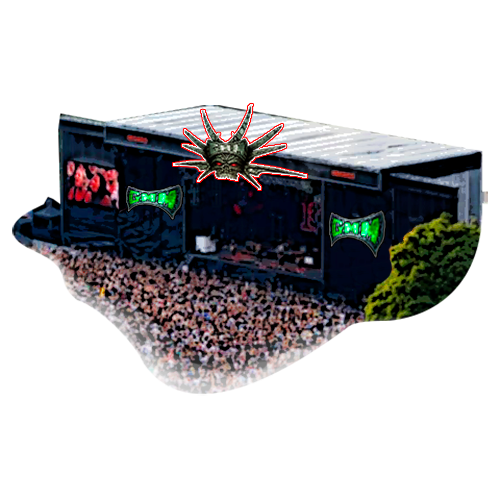
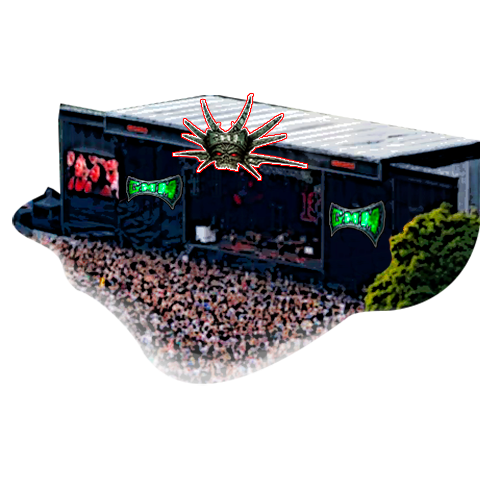
test added

Changed region(s): [[0.0312, 0.1875, 1.0, 0.8125]]

diff --git a/index.html b/index.html
@@ -4,40 +4,66 @@
     <title>Idle GMM festival</title>
     <link rel="stylesheet" href="styles.css" />
   </head>
-</head>
-<body class="responsive">
- <!-- Score-board-bar -->
- <div class="responsive" id="scoreboard-bar">
-  <span class="score">Skullies: <span id="totalScore">0</span></span>
-  <span class="level">Podium Level: <span id="podiumLevel">1</span></span>
-  <span class="line-up">Line Up: <span id="lineUpValue">0</span></span>
-  <span class="level">Food Level: <span id="foodLevel">1</span></span>
 
-  <a href="top-scores.html" class="top-scores-link">Top Scores</a>
-</div>
+  <body class="responsive">
+    <!-- Score-board-bar -->
+    <div class="responsive" id="scoreboard-bar">
+      <span class="score">Skullies: <span id="totalScore">0</span></span>
+      <span class="level">Podium Level: <span id="podiumLevel">1</span></span>
+      <span class="line-up">Line Up: <span id="lineUpValue">0</span></span>
+      <span class="level">Food Level: <span id="foodLevel">1</span></span>
 
-<img id="podium-main" src="images/podium3.png" class="responsive" alt="main" onClick="upgradePodium()" />
+      <a href="top-scores.html" class="top-scores-link">Top Scores</a>
+    </div>
 
-<!-- metaMask code for the button -->
-    <img id="metamaskImg" src="images/metamask.svg" alt="connectButton" onClick="connect()" />
-    <img id="cheat1000" src="images/coin.gif" alt="cheat1000" onClick="cheat()" />
-    
+    <img
+      id="podium-main"
+      src="images/podium3.png"
+      class="responsive"
+      alt="main"
+      onClick="upgradePodium()"
+    />
 
-    <img id="drinksStall" src="images/drinks.png" class="green" alt="drinks" onClick="upgradeDrinks()" />
-    
+    <!-- metaMask code for the button -->
+    <img
+      id="metamaskImg"
+      src="images/metamask.svg"
+      alt="connectButton"
+      onClick="connect()"
+    />
+    <img
+      id="cheat1000"
+      src="images/coin.gif"
+      alt="cheat1000"
+      onClick="cheat()"
+    />
+
+    <img
+      id="drinksStall"
+      src="images/drinks.png"
+      class="green"
+      alt="drinks"
+      onClick="upgradeDrinks()"
+    />
+
     <div id="drinksLevelBox" class="level-box">
       <span id="drinksLevelText">1</span>
     </div>
-    
-    <img id="foodStall" src="images/food.png" class="responsive" alt="food" onClick="upgradeFood()" />
 
-    
+    <img
+      id="foodStall"
+      src="images/food.png"
+      class="responsive"
+      alt="food"
+      onClick="upgradeFood()"
+    />
+
     <!-- <div class="responsive" id="button-container1">
       <img src="images/podium2.png" alt="podium" onClick="upgradePodium()" />
       <img src="images/drinks2.png" img id="drinksLevelImage" alt="drinks" onClick="upgradeDrinks()" />
       <img src="images/food.png" alt="food" onClick="handleButtonClick()" /></div> -->
-      
-   <!-- <div class="responsive" id="button-container2" >  
+
+    <!-- <div class="responsive" id="button-container2" >  
       <img src="images/audio.png" alt="audio" onClick="handleButtonClick()" />
       <img
         src="images/tshirts.png"
@@ -51,18 +77,15 @@
       />
     </div> -->
 
-
-
-  
-<!-- Custom Popup Container -->
-<div id="popupContainer" class="popup-container">
-  <div class="popup-content">
-      <h2>Need nore Scullies!</h2>     
-  </div>
-</div>
-
-<!-- storyline popup -->
-<!-- <button id="showPopup">Show Popup</button>
+    <!-- Custom Popup Container -->
+    <div id="popupContainer" class="popup-container">
+      <div class="popup-content">
+        <h2>Need nore Scullies!</h2>
+      </div>
+    </div>
+    <img id="upgradeArrow" src="images/upgradeArrow.png" alt="upgradeArrow" />
+    <!-- storyline popup -->
+    <!-- <button id="showPopup">Show Popup</button>
     <div id="popup2" class="popup2">
         <div class="popup-content">
             <span class="close" id="closePopup">&times;</span>
@@ -71,16 +94,14 @@
         </div>
     </div> -->
 
-    
     <button id="saveProgress" onclick="web3save()">Save Progress</button>
-    <button id="loadProgress"onclick="web3load()">Load Progress</button>
+    <button id="loadProgress" onclick="web3load()">Load Progress</button>
     <div id="progressResult"></div>
-    
+
     <script src="JS/web3.min.js"></script>
-    <script src="JS/app.js"></script>    
+    <script src="JS/app.js"></script>
     <script src="JS/connectWeb3.js"></script>
     <script src="JS/score.js"></script>
     <script src="JS/story-popup.js"></script>
-    
   </body>
 </html>

diff --git a/JS/score.js b/JS/score.js
@@ -32,6 +32,14 @@ function updateScore(totalScore) {
   const scoreElement = document.getElementById("totalScore"); // Get the score element
   const formattedScore = formatNumberAbbreviated(totalScore);
   scoreElement.innerHTML = formattedScore;
+
+  const upgradeArrowImg = document.getElementById("upgradeArrow");
+  if (totalScore >= drinksUpgradeCost) {
+    // console.log("show arrow!");
+    upgradeArrowImg.style.display = "block";
+  } else {
+    upgradeArrowImg.style.display = "none"; // Hide the image
+  }
 }
 //^^^^^^^^^^^^^^^^^^^^^^^^^^^^^//
 //         PODIUM              //
@@ -69,15 +77,15 @@ function upgradePodium() {
 //         DRINKS              //
 //~~~~~~~~~~~~~~~~~~~~~~~~~~~~~//
 
-function updateDrinksImage() {
+function updateDrinksLevel() {
   var drinksLevel = levelData.Level.drinks;
-  const drinksStallElement = document.getElementById("drinksLevelText"); //What are we going to update?
-  const drinksLevelBox = document.getElementById("drinksLevelBox");
-  drinksLevelBox.style.display = "inline-block"; // Show the level box
-  drinksStallElement.innerHTML = drinksLevel; // update level
+  // Get the level element and update its innerHTML with the current level
+  const levelElement = document.getElementById("drinksLevelText");
+  levelElement.innerHTML = `lvl: ${drinksLevel}`; // lvlup: ${drinksUpgradeCost}`; this is optional
+}
 
+function updateDrinksImage() {
   console.log("updateDrinksLevelAndImage", drinksLevel);
-
   // Determine filter color based on food level
   let filterColor = "green"; // Default color
 
@@ -95,14 +103,6 @@ function updateDrinksImage() {
   // Update the image class and filter
   drinksStall.className = filterColor; // Assign the class to the element
   // console.log(`images/drinks.png#${filterColor}`);
-
-  // Update the image class and filter
-  drinksStallElement.className = filterColor;
-
-  // Update the text of the drinksLevelBox
-  const drinksLevelText = document.getElementById("drinksLevelText");
-  drinksLevelText.textContent = drinksLevel; // Update with the drinks level
-  return;
 }
 
 function calculateDrinksUpgradeCost() {
@@ -130,11 +130,12 @@ function upgradeDrinks() {
     console.log("upgrade to next level costs: ", drinksUpgradeCost);
     updateScore(totalScore);
     updateDrinksImage();
+    updateDrinksLevel(drinksUpgradeCost);
   }
 }
 function updateDrinksImage() {
   var drinksLevel = levelData.Level.drinks;
-  console.log("updateDrinksLevelAndImage", drinksLevel);
+  console.log("updatedDrinksLevelAndImage", drinksLevel);
 
   // Determine filter color based on food level
   let filterColor = "green"; // Default color
@@ -197,7 +198,7 @@ function upgradeFood() {
     increment = increment * (16 / 10);
     console.log("new increment: ", increment);
     levelData.Level.food++;
-    console.log("podium level: ", levelData.Level.food);
+    console.log("food level: ", levelData.Level.food);
     foodUpgradeCost = calculateFoodUpgradeCost();
     console.log("upgrade to next level costs: ", foodUpgradeCost);
     updateScore(totalScore);
@@ -246,5 +247,5 @@ function calculateCombinedScore(stageStartOverLvl, totalScore) {
 }
 
 function cheat() {
-  baseScore = totalScore * 2;
+  baseScore = totalScore * 5;
 }

diff --git a/styles.css b/styles.css
@@ -1,25 +1,14 @@
  body {  
   background-image: url("images/background4.png");  
   background-repeat: no-repeat;
-  height: 4358px; /* Height of your background image */
-    overflow-y: scroll;  /*Enable vertical scrolling */
+  height: 4358px;
+  width: 1080; /* Height of your background image */
+    overflow-y: scroll;      /*Enable vertical scrolling */
+    overflow-x: hidden;
   /*background-size: cover;*/ /* this works great for desktop! Or, on desktop, press CTRL +*/
 
 } 
-  /* .container {
-    position: relative;
-    background-image: url("images/background3.png");
-    background-size: auto 100vh;
-    
-    height: 4358px; /* Height of your background image 
-    overflow-y: scroll;  Enable vertical scrolling 
-  } */
-  
-  /* .background-image {
-    position: top right;
-    max-width: 100%;
-    height: auto;
-  } */
+
   
    #scoreboard-bar {
     position: fixed;  /*Position the scoreboard bar at the top of the screen */
@@ -96,10 +85,11 @@
 }*/
 #podium-main {  
   position: absolute;
-  top: 0px;
-  left: 50px;
+  width: 900px;
+  top: 200px;
+  left: 178px;
   z-index: 0.5;
-  transform: translateX(10px); /* Adjust the value as needed */
+  /*transform: translateX(100px);  Adjust the value as needed */
  }
  #saveProgress {
   position: fixed;
@@ -179,10 +169,10 @@
 #drinksStall.green {
   filter: drop-shadow(0px 0px 30px #00ff08); 
 }
-.level-box {
+#drinksLevelBox {
   color: #ffffff;
   font-weight: bold;
-  font-size: 38px;
+  font-size: 40px;
   margin-top: 20px;
   margin-bottom: 20px;  
   margin-left: 10px; /*Add some left margin for spacing */
@@ -190,22 +180,30 @@
   position: absolute;
   top: 2670px; 
   left: 10px; 
-  width: 100px; 
-  height: 100px; 
+  width: 150px; 
+  height: 50px; 
   cursor: pointer; 
   display: inline-block;
-  background-color: blue;
+  background-color: rgb(136, 0, 255);
   padding: 10px;
   border-radius: 10px;
   box-shadow: 0px 10px 20px rgba(0, 0, 0, 0.7);
   margin-left: 10px;
 }
+#upgradeArrow {
+  position: absolute; /* Keep the element fixed within the viewport */
+  top: 2620px;     /* Adjust this value as needed */
+  left: 100px; 
+  width: 150px;   
+  z-index: 5;
+  filter: drop-shadow(0px 0px 10px #000000); 
+  animation: moveUpAndDown 1s infinite ease-in-out; /* Apply the animation */ 
+}
 
-
-
-
-
-
+@keyframes moveUpAndDown {
+  0%, 100% { top: 2590px; } /* Start and end position */
+  50% { top: 2605px; } /* Middle position */
+}
 
 
 
@@ -216,8 +214,6 @@
   width: 600px; 
   height: 600px; 
   cursor: pointer; 
-}
-#foodStall {
   max-width: 100%;
   height: auto;
 }
